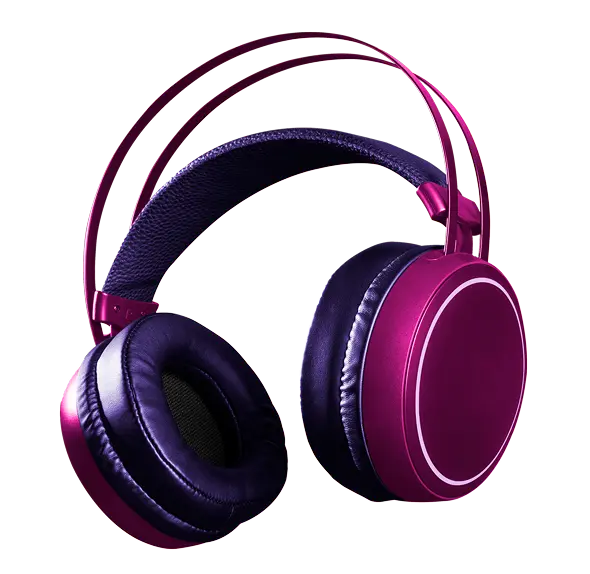
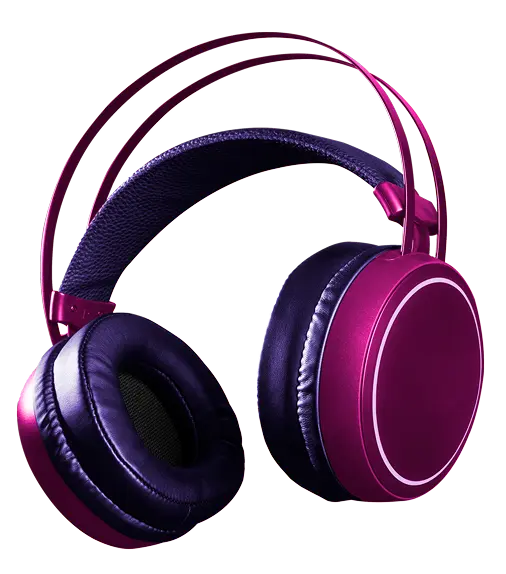
headphone image and variant index animations

diff --git a/src/pages/Home.jsx b/src/pages/Home.jsx
@@ -2,7 +2,6 @@ import { AnimatePresence, motion } from "motion/react";
 import { useState } from "react";
 
 import frame7 from "../assets/frame7.webp";
-import Headpiece1 from "../assets/Headpiece1.png";
 import HeadpiecePink from "../assets/HeadpiecePink.webp";
 import HeadpieceGreen from "../assets/HeadpieceGreen.webp";
 import HeadpieceBlue from "../assets/HeadpieceBlue.webp";
@@ -21,8 +20,7 @@ const variants = [
     dot: "bg-accent-dot-pink",
     outline: "outline-accent-dot-pink/30",
     ring: "ring-accent-dot-pink/20",
-    img: Headpiece1,
-    // img: HeadpiecePink,
+    img: HeadpiecePink,
     bg: "bg-bg-pink",
     text: "text-accent-pink",
     carousel: "bg-accent-carousel-pink",
@@ -193,19 +191,13 @@ function Home() {
               <AnimatePresence mode="wait">
                 <motion.img
                   key={activeVariant.id}
-                  // initial={{ opacity: 0, transform: "translateY(-20px)" }}
-                  // animate={{ opacity: 1, transform: "translateY(0px)" }}
-                  // exit={{ opacity: 0, transform: "translateY(-20px)" }}
-                  // transition={{ duration: 0.35, ease: "easeOut" }}
-
-                  initial={{ opacity: 0, scale: 0.96, y: 20 }}
+                  initial={{ opacity: 0, scale: 0.95, y: 20 }}
                   animate={{ opacity: 1, scale: 1, y: 0 }}
-                  exit={{ opacity: 0, scale: 0.96, y: -20 }}
+                  exit={{ opacity: 0, scale: 0.95, y: -20 }}
                   transition={{ duration: 0.35, ease: "easeOut" }}
                   src={activeVariant.img}
                   alt="pink head phone"
                   className="w-full object-contain"
-                  // className="w-full object-contain"
                 />
               </AnimatePresence>
             </div>
@@ -215,20 +207,19 @@ function Home() {
 
             {/* right dots for selecting headphones */}
             <div className="absolute right-0 bottom-1/2 flex h-2/3 w-1.25 translate-y-1/2 flex-col items-center justify-center gap-12.25 rounded-[30px] bg-[#eeeeee]">
-              {variants.map((item) => {
-                const isActive = item.id === activeVariant.id;
+              {variants.map((variant) => {
+                const isActive = variant.id === activeVariant.id;
                 return (
                   <motion.button
-                    key={item.id}
-                    onClick={() => setActiveVariant(item)}
+                    key={variant.id}
+                    onClick={() => setActiveVariant(variant)}
                     whileHover={{ scale: 1.3 }}
                     whileTap={{ scale: 0.95 }}
                     animate={{
                       opacity: isActive ? 1 : 0.6,
                     }}
                     transition={{ type: "spring", stiffness: 300 }}
-                    className={`size-3 cursor-pointer rounded-sm ${item.dot} ${isActive ? `${item.outline} ${item.ring} ring-6 outline-4` : ""}`}
-                    // className={` size-3 cursor-pointer rounded-sm transition-all duration-300 ${item.dot} ${activeVariant.id === item.id ? `${item.outline} ${item.ring} ring-offset1 ring-6 outline-4` : ""}`}
+                    className={`size-3 cursor-pointer rounded-sm ${variant.dot} ${isActive ? `${variant.outline} ${variant.ring} ring-6 outline-4` : ""}`}
                   />
                 );
               })}
@@ -239,20 +230,30 @@ function Home() {
 
       {/* Footer */}
       <footer className="mx-auto flex w-full max-w-7xl justify-between px-8">
+        {/* variant index */}
         <p className="font-medium tracking-[5%]">
-          <span className="inline-block w-18 text-5xl">
-            0{activeVariant.id}
-          </span>
+          <AnimatePresence mode="popLayout">
+            <motion.span
+              key={activeVariant.id}
+              initial={{ opacity: 0, y: 50 }}
+              animate={{ opacity: 1, y: 0 }}
+              exit={{ opacity: 0, y: -50 }}
+              transition={{ duration: 0.5, ease: "easeInOut" }}
+              className="inline-block w-18 text-5xl"
+            >
+              0{activeVariant.id}
+            </motion.span>
+          </AnimatePresence>
           <span className="text-2xl text-text-secondary">/05.</span>
         </p>
 
-        {/* carousel dots */}
+        {/* variant dots */}
         <ul className="flex items-center gap-4 pt-14">
           {variants.map((variant) => (
             <button
               key={variant.id}
               onClick={() => setActiveVariant(variant)}
-              className={`size-2 cursor-pointer rounded-full transition-all duration-300 ease-out ${activeVariant.id === variant.id ? `ring-2 ${variant.dot} ${variant.ring}` : "bg-text-muted"}`}
+              className={`size-2 cursor-pointer rounded-full transition-all duration-300 ease-out ${activeVariant.id === variant.id ? `scale-150 ${variant.dot} ${variant.ring}` : "bg-text-muted"}`}
             ></button>
           ))}
         </ul>

diff --git a/src/index.css b/src/index.css
@@ -72,18 +72,3 @@ testt {
 
   --border-soft: #262626;
 } */
-
-/* Embla carousel styles */
-.embla__viewport {
-  overflow: hidden;
-}
-
-.embla__container {
-  display: flex;
-  touch-action: pan-y pinch-zoom;
-}
-
-.embla__slide {
-  flex: 0 0 100%;
-  min-width: 0;
-}
